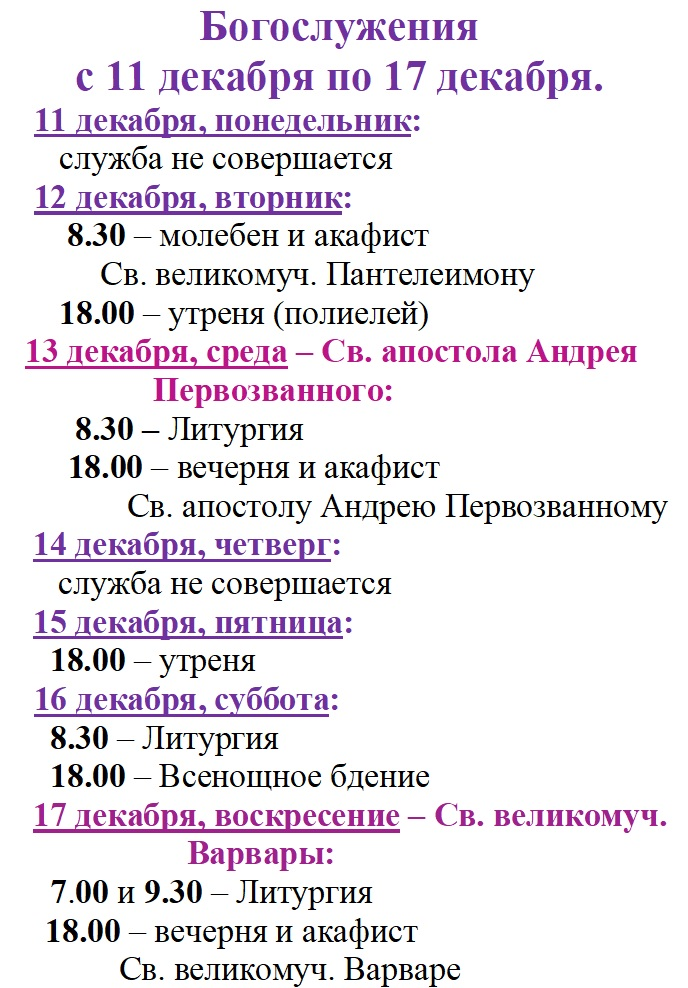
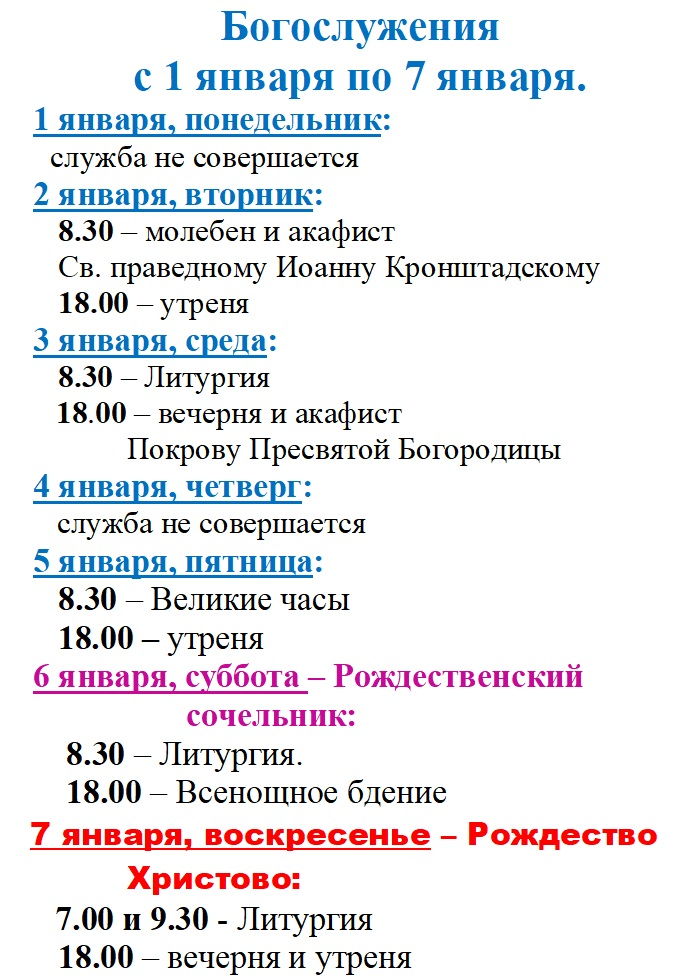
Update

Changed region(s): [[0.0305, 0.0, 0.9767, 1.0]]

diff --git a/calendartek.html b/calendartek.html
@@ -181,9 +181,9 @@
   									<!-- --><div class="slider__item">
 										<img src="img/raspisanie/03.jpg" alt="Объявление 2">
 									</div>
-									<!----><div class="slider__item">
+									<!--<div class="slider__item">
 										<img src="img/raspisanie/r1.jpg" alt="Расписание">
-									</div>
+									</div>-->
 									<div class="slider__item">
 										<img src="img/raspisanie/r2.jpg" alt="Расписание">
 									</div>
